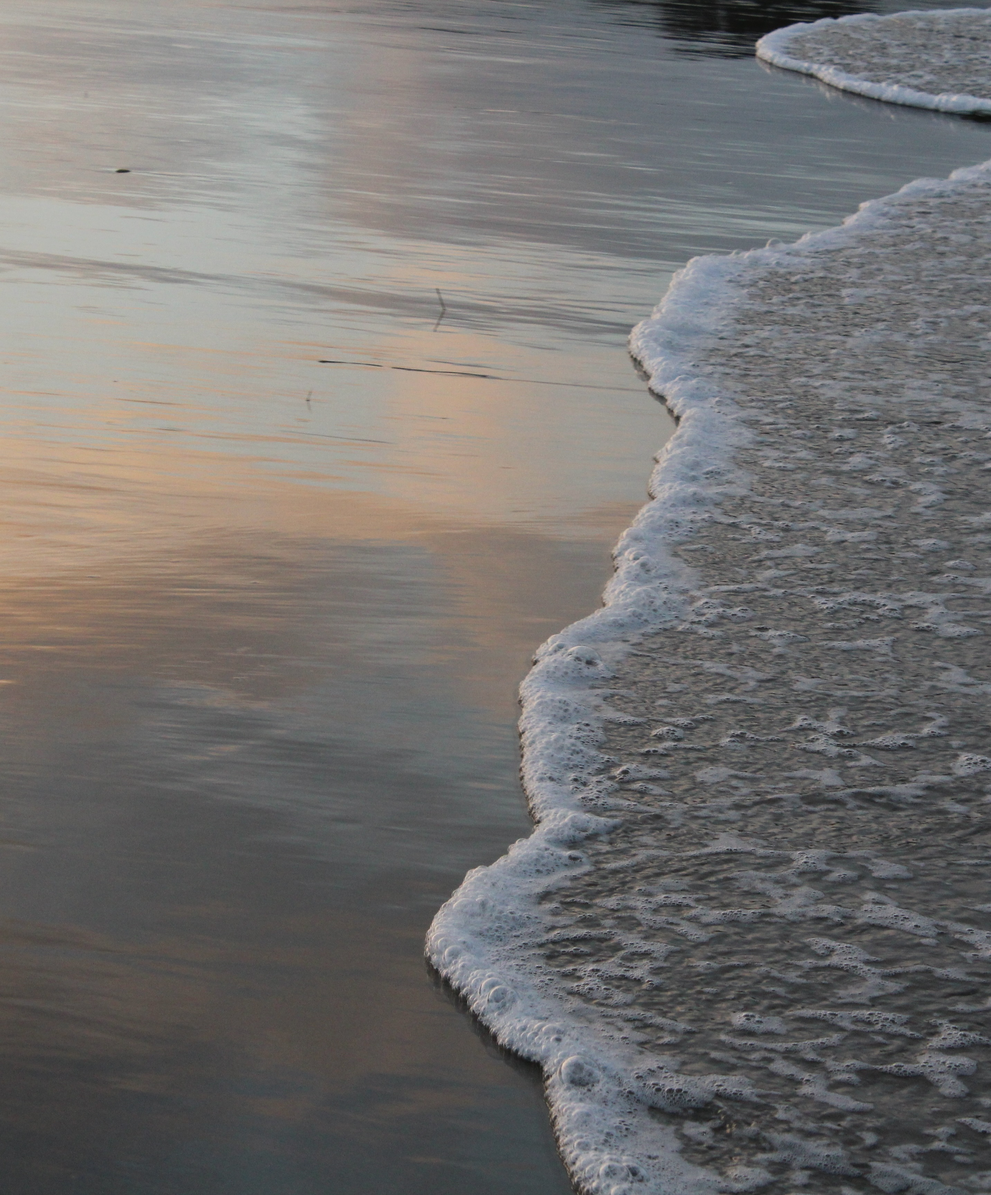
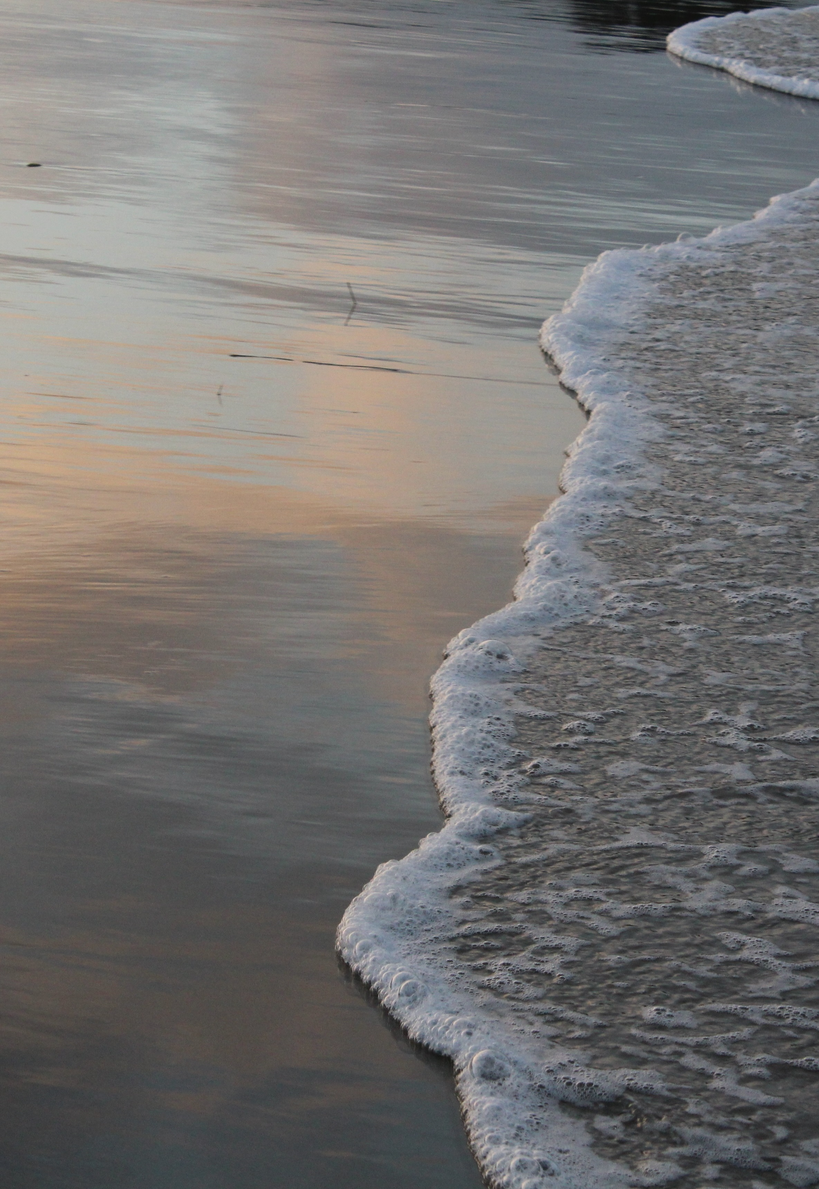
portfolio commit

diff --git a/stylesheets/portfolio.css b/stylesheets/portfolio.css
@@ -50,38 +50,30 @@ table {
 
 /*How the webpage should look on a desktop*/
 
-@media (max-width: 1500px) {
+@media (max-width: 1499px) {
   body {
     background-image: url("../images/beach.jpg");
     background-size: 1500px;
   }
 
-/*start header styles*/
-
-  .wrapper {
-    width: 1024px;
-  }
-
   h1 {
     font-size: 50px;
     font-family: courier;
+    color: white;
     position: absolute;
+    width: auto;
     top: 170px;
     left: 900px;
   }
 
 }
 
-@media (max-width: 800px) {
+/*How the webpage should look on a tablet*/
+
+@media (max-width: 799px) {
   body {
     background-image: url("../images/beach-tablet.jpg");
-    background-size: 800px;
-  }
-
-/*start header styles*/
-
-  .wrapper {
-    width: 1024px;
+    background-size: 770px 1024px;
   }
 
   h1 {
@@ -94,16 +86,12 @@ table {
 
 }
 
-@media (max-width: 400px) {
+/*How the webpage should look on a mobile phone*/
+
+@media (max-width: 399px) {
   body {
     background-image: url("../images/beach-mobile.jpg");
     background-size: 400px;
-  }
-
-/*start header styles*/
-
-  .wrapper {
-    width: 1024px;
   }
 
   h1 {
